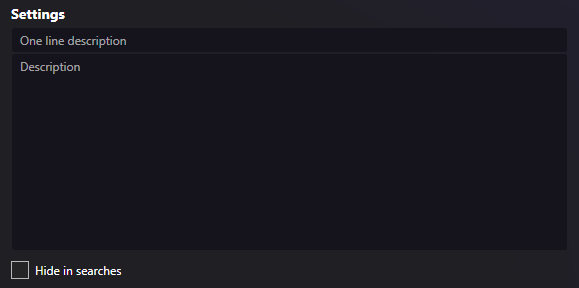
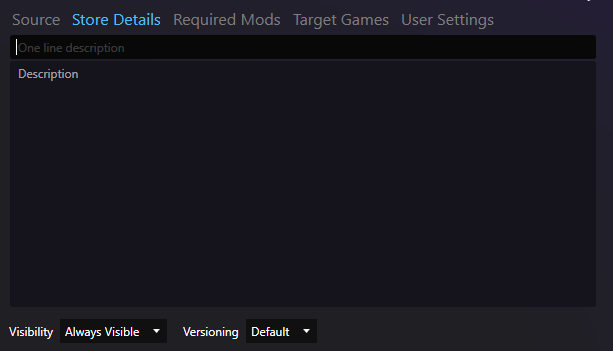
Local solution patcher docs

diff --git a/docs/devs/Publishing.md b/docs/devs/Publishing.md
@@ -118,5 +118,10 @@ Sometimes there can be error during the scraping event.   The scraper system tri
 
 If you see your patcher with an error, see if it makes sense and if you can adjust for what it's complaining about.
 
+### Delisting patcher
+If you want to delist your patcher, you can by including a meta file with instructions to do so.   The easiest way to do this is by using the Solution Patcher suite.  This setup has settings panels you can use, one of which allows you to set the visibility of your patcher easily.
+
+[:octicons-arrow-right-24: Solution Patcher](../Local-Solution-Patcher.md#patcher-settings)
+	
 ## Build Executable
 You can also build an executable, and distribute the `exe` directly for users.  They would then add it as an [External Program Patcher](../External-Program-Patcher.md)

diff --git a/docs/Local-Solution-Patcher.md b/docs/Local-Solution-Patcher.md
@@ -32,7 +32,7 @@ It is able to construct whole Solutions from scratch, or add a new project to an
 ## Patcher Settings
 A patcher has a Synthesis specific meta file where you can specify patcher description, among other things.  The Solution Patcher has built in GUI controls for modifying/creating this file:
 
-![](https://i.imgur.com/mTJevUM.png)
+![](images/customizing-patcher.png)
 
 Settings you can modify:
 
